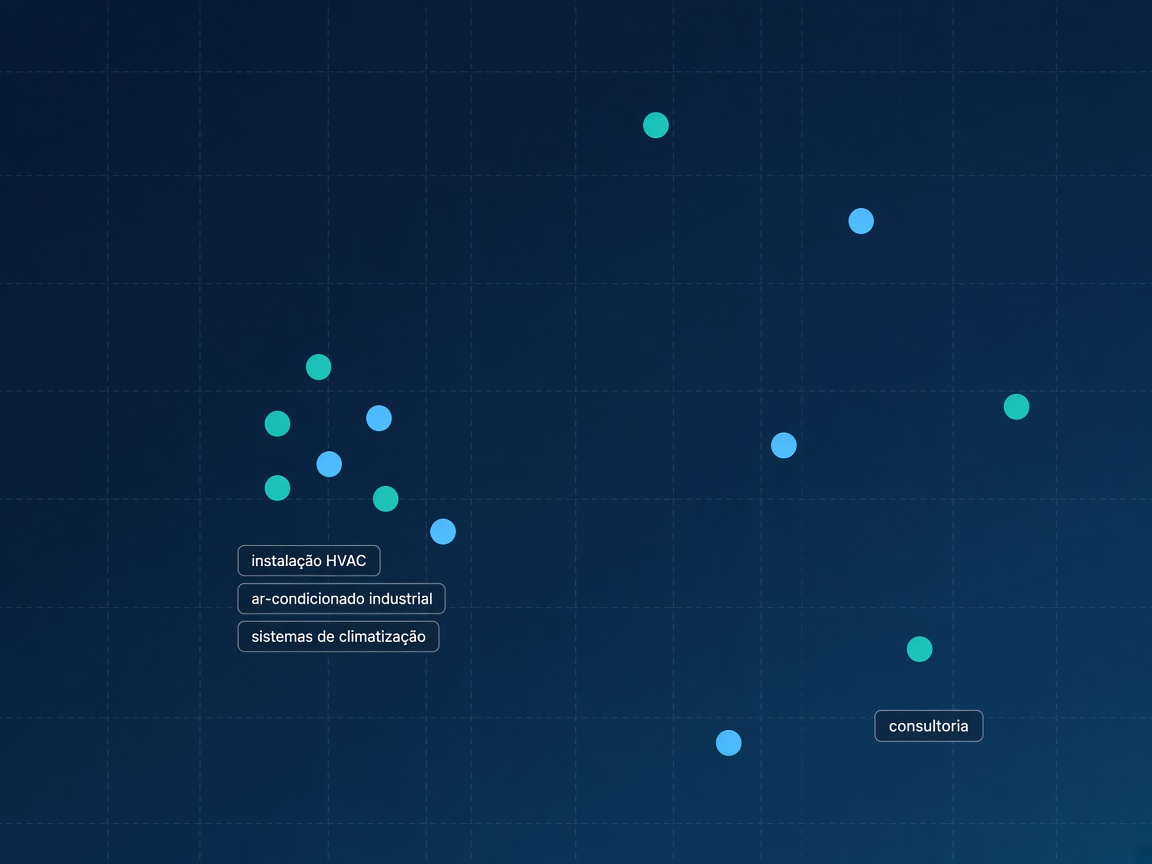
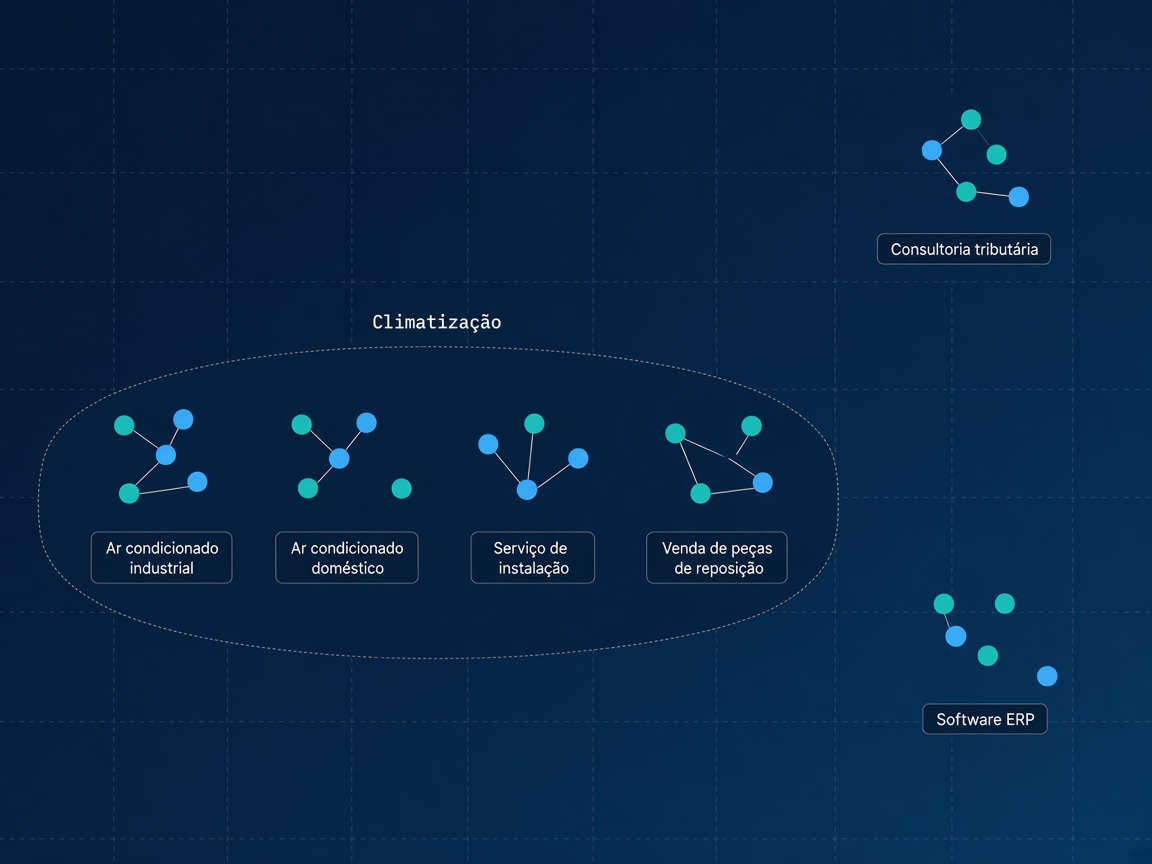
Keep option B vector slide with HVAC niche clusters.
Show subclusters and intra-cluster links for climatização niches, with unrelated sectors farther away, and drop A/C comparison variants.

diff --git a/apresentacao-pipefy.html b/apresentacao-pipefy.html
@@ -270,10 +270,10 @@
         </div>
       </section>
 
-      <!-- 04 VETORES · opção A (foco na query) -->
+      <!-- 04 VETORES -->
       <section data-background-color="#FFFFFF">
         <div class="bf-slide">
-          <p class="bf-eyebrow">02b · Como o perfil é pesquisado · opção A</p>
+          <p class="bf-eyebrow">02b · Como o perfil é pesquisado</p>
           <h2 class="bf-title" style="max-width: 26ch; font-size: 34px;">
             Seis dimensões<br />
             <span class="soft">para uma busca guiada por atributos.</span>
@@ -282,12 +282,13 @@
 
           <div class="bf-vector-slide">
             <div class="bf-vector-visual">
-              <img class="diagram" src="assets/vector-space-a.png" alt="Espaço vetorial 2D: ponto de consulta em destaque" />
+              <img class="diagram" src="assets/vector-space-b.png" alt="Espaço vetorial em clusters: nichos de climatização próximos e setores não relacionados mais distantes" />
               <div class="overlay-copy">
-                <h3>Proximidade = semelhança</h3>
+                <h3>Clusters no banco</h3>
                 <p>
-                  Pontos próximos descrevem fornecedores parecidos.
-                  Quanto mais se afastam, mais as descrições divergem.
+                  Dentro de um setor amplo, como climatização, o índice separa nichos
+                  (industrial, doméstico, instalação, peças). Ligações ficam no mesmo cluster;
+                  nichos sem relação aparecem bem mais longe.
                 </p>
               </div>
             </div>
@@ -347,173 +348,7 @@
           </div>
 
           <div class="bf-foot">
-            <span>Opção A · foco na query · multi-vetor + BM25</span>
-            <span></span>
-          </div>
-        </div>
-      </section>
-
-      <!-- 04 VETORES · opção B (foco no cluster) -->
-      <section data-background-color="#FFFFFF">
-        <div class="bf-slide">
-          <p class="bf-eyebrow">02b · Como o perfil é pesquisado · opção B</p>
-          <h2 class="bf-title" style="max-width: 26ch; font-size: 34px;">
-            Seis dimensões<br />
-            <span class="soft">para uma busca guiada por atributos.</span>
-          </h2>
-          <div class="bf-rule"></div>
-
-          <div class="bf-vector-slide">
-            <div class="bf-vector-visual">
-              <img class="diagram" src="assets/vector-space-b.png" alt="Espaço vetorial 2D: cluster semântico de fornecedores similares" />
-              <div class="overlay-copy">
-                <h3>Proximidade = semelhança</h3>
-                <p>
-                  Pontos próximos descrevem fornecedores parecidos.
-                  Quanto mais se afastam, mais as descrições divergem.
-                </p>
-              </div>
-            </div>
-
-            <div class="bf-vector-side">
-              <div class="bf-why">
-                <p><strong>Busca por atributos pontuais:</strong> o ranking combina similaridade semântica (vetores densos) com validação de termos específicos via <strong>BM25</strong> (vetor esparso).</p>
-              </div>
-
-              <div class="bf-vecs-compact">
-                <div class="bf-vec">
-                  <div class="tag">Denso</div>
-                  <h4>Descrição</h4>
-                  <p>Visão geral da empresa, o que ela é e como se apresenta no mercado.</p>
-                </div>
-                <div class="bf-vec">
-                  <div class="tag">Denso</div>
-                  <h4>Clientes</h4>
-                  <p>Clientes e projetos mais atuais, com foco no trabalho recente.</p>
-                </div>
-                <div class="bf-vec">
-                  <div class="tag">Denso</div>
-                  <h4>Público-alvo</h4>
-                  <p>Perfil de quem a empresa costuma atender, pelo histórico de atuação.</p>
-                </div>
-                <div class="bf-vec">
-                  <div class="tag">Denso</div>
-                  <h4>Produtos</h4>
-                  <p>O que a empresa vende: catálogo e ofertas de produto.</p>
-                </div>
-                <div class="bf-vec">
-                  <div class="tag">Denso</div>
-                  <h4>Serviços</h4>
-                  <p>O que a empresa presta: instalação, consultoria, manutenção e afins.</p>
-                </div>
-                <div class="bf-vec sparse">
-                  <div class="tag">Esparso · BM25</div>
-                  <h4>Termos exatos</h4>
-                  <p>SKUs, marcas, códigos e jargões. Valida a string no perfil, não só o sentido.</p>
-                </div>
-              </div>
-
-              <p class="bf-caption" style="margin: 4px 0 0;">Adições planejadas para fevereiro de 2027</p>
-              <div class="bf-future-row">
-                <div class="bf-vec future">
-                  <div class="tag">Novo · denso</div>
-                  <h4>Certificações</h4>
-                  <p>Licenças, certificados e documentos do fornecedor no perfil.</p>
-                </div>
-                <div class="bf-vec future">
-                  <div class="tag">Novo · esparso</div>
-                  <h4>Nomes de clientes</h4>
-                  <p>Busca direta por empresas que já possam ter sido atendidas.</p>
-                </div>
-              </div>
-            </div>
-          </div>
-
-          <div class="bf-foot">
-            <span>Opção B · foco no cluster · multi-vetor + BM25</span>
-            <span></span>
-          </div>
-        </div>
-      </section>
-
-      <!-- 04 VETORES · opção C (foco no espectro de distância) -->
-      <section data-background-color="#FFFFFF">
-        <div class="bf-slide">
-          <p class="bf-eyebrow">02b · Como o perfil é pesquisado · opção C</p>
-          <h2 class="bf-title" style="max-width: 26ch; font-size: 34px;">
-            Seis dimensões<br />
-            <span class="soft">para uma busca guiada por atributos.</span>
-          </h2>
-          <div class="bf-rule"></div>
-
-          <div class="bf-vector-slide">
-            <div class="bf-vector-visual">
-              <img class="diagram" src="assets/vector-space-c.png" alt="Espaço vetorial 2D: espectro de distância semântica" />
-              <div class="overlay-copy">
-                <h3>Proximidade = semelhança</h3>
-                <p>
-                  Pontos próximos descrevem fornecedores parecidos.
-                  Quanto mais se afastam, mais as descrições divergem.
-                </p>
-              </div>
-            </div>
-
-            <div class="bf-vector-side">
-              <div class="bf-why">
-                <p><strong>Busca por atributos pontuais:</strong> o ranking combina similaridade semântica (vetores densos) com validação de termos específicos via <strong>BM25</strong> (vetor esparso).</p>
-              </div>
-
-              <div class="bf-vecs-compact">
-                <div class="bf-vec">
-                  <div class="tag">Denso</div>
-                  <h4>Descrição</h4>
-                  <p>Visão geral da empresa, o que ela é e como se apresenta no mercado.</p>
-                </div>
-                <div class="bf-vec">
-                  <div class="tag">Denso</div>
-                  <h4>Clientes</h4>
-                  <p>Clientes e projetos mais atuais, com foco no trabalho recente.</p>
-                </div>
-                <div class="bf-vec">
-                  <div class="tag">Denso</div>
-                  <h4>Público-alvo</h4>
-                  <p>Perfil de quem a empresa costuma atender, pelo histórico de atuação.</p>
-                </div>
-                <div class="bf-vec">
-                  <div class="tag">Denso</div>
-                  <h4>Produtos</h4>
-                  <p>O que a empresa vende: catálogo e ofertas de produto.</p>
-                </div>
-                <div class="bf-vec">
-                  <div class="tag">Denso</div>
-                  <h4>Serviços</h4>
-                  <p>O que a empresa presta: instalação, consultoria, manutenção e afins.</p>
-                </div>
-                <div class="bf-vec sparse">
-                  <div class="tag">Esparso · BM25</div>
-                  <h4>Termos exatos</h4>
-                  <p>SKUs, marcas, códigos e jargões. Valida a string no perfil, não só o sentido.</p>
-                </div>
-              </div>
-
-              <p class="bf-caption" style="margin: 4px 0 0;">Adições planejadas para fevereiro de 2027</p>
-              <div class="bf-future-row">
-                <div class="bf-vec future">
-                  <div class="tag">Novo · denso</div>
-                  <h4>Certificações</h4>
-                  <p>Licenças, certificados e documentos do fornecedor no perfil.</p>
-                </div>
-                <div class="bf-vec future">
-                  <div class="tag">Novo · esparso</div>
-                  <h4>Nomes de clientes</h4>
-                  <p>Busca direta por empresas que já possam ter sido atendidas.</p>
-                </div>
-              </div>
-            </div>
-          </div>
-
-          <div class="bf-foot">
-            <span>Opção C · foco no espectro de distância · multi-vetor + BM25</span>
+            <span>Índice multi-vetor · clusters · significado + BM25</span>
             <span></span>
           </div>
         </div>
